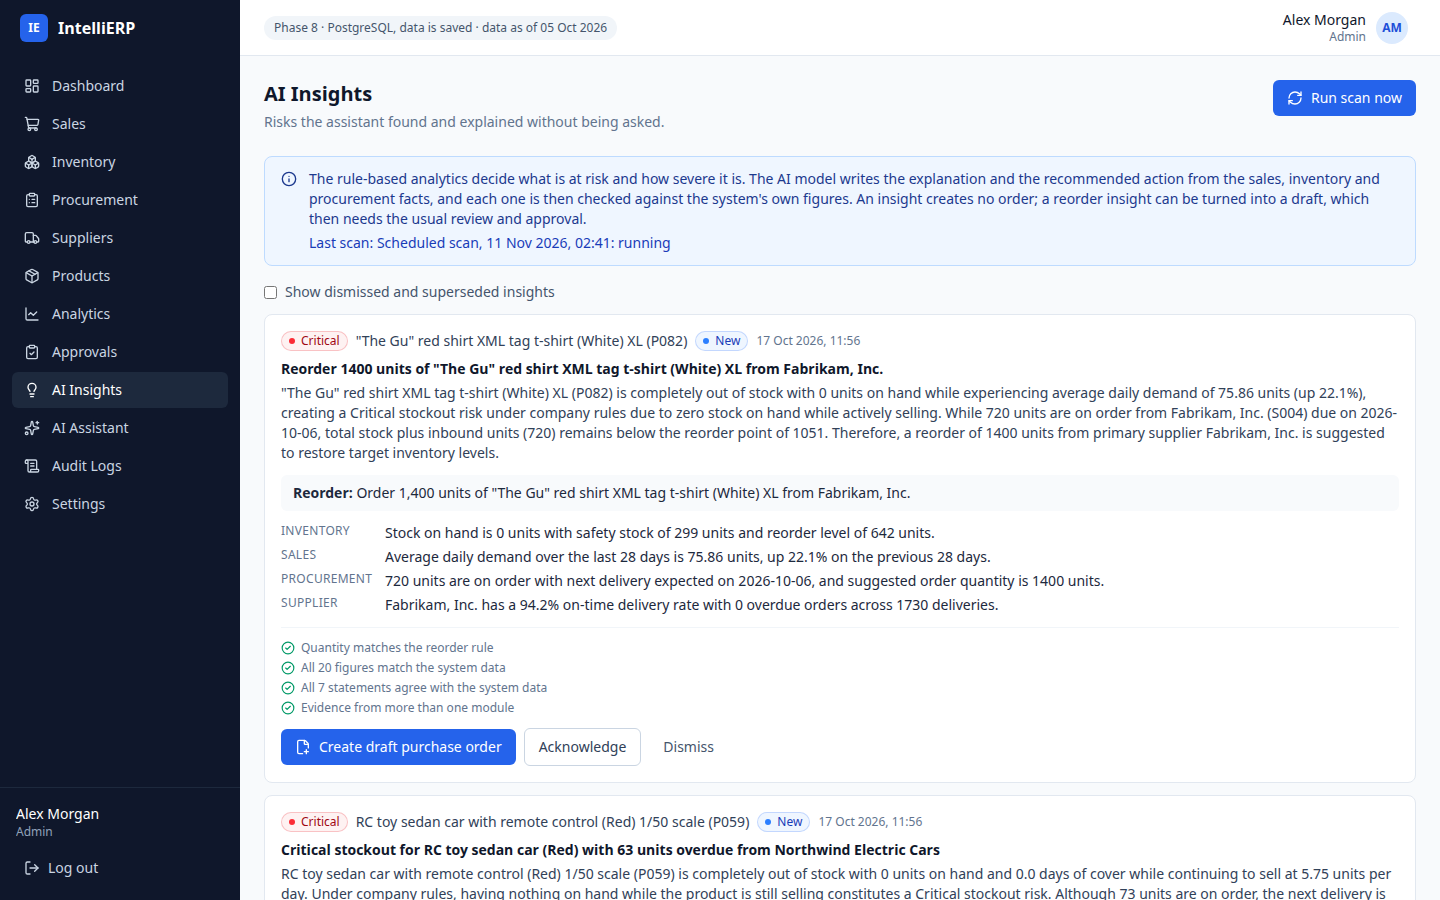
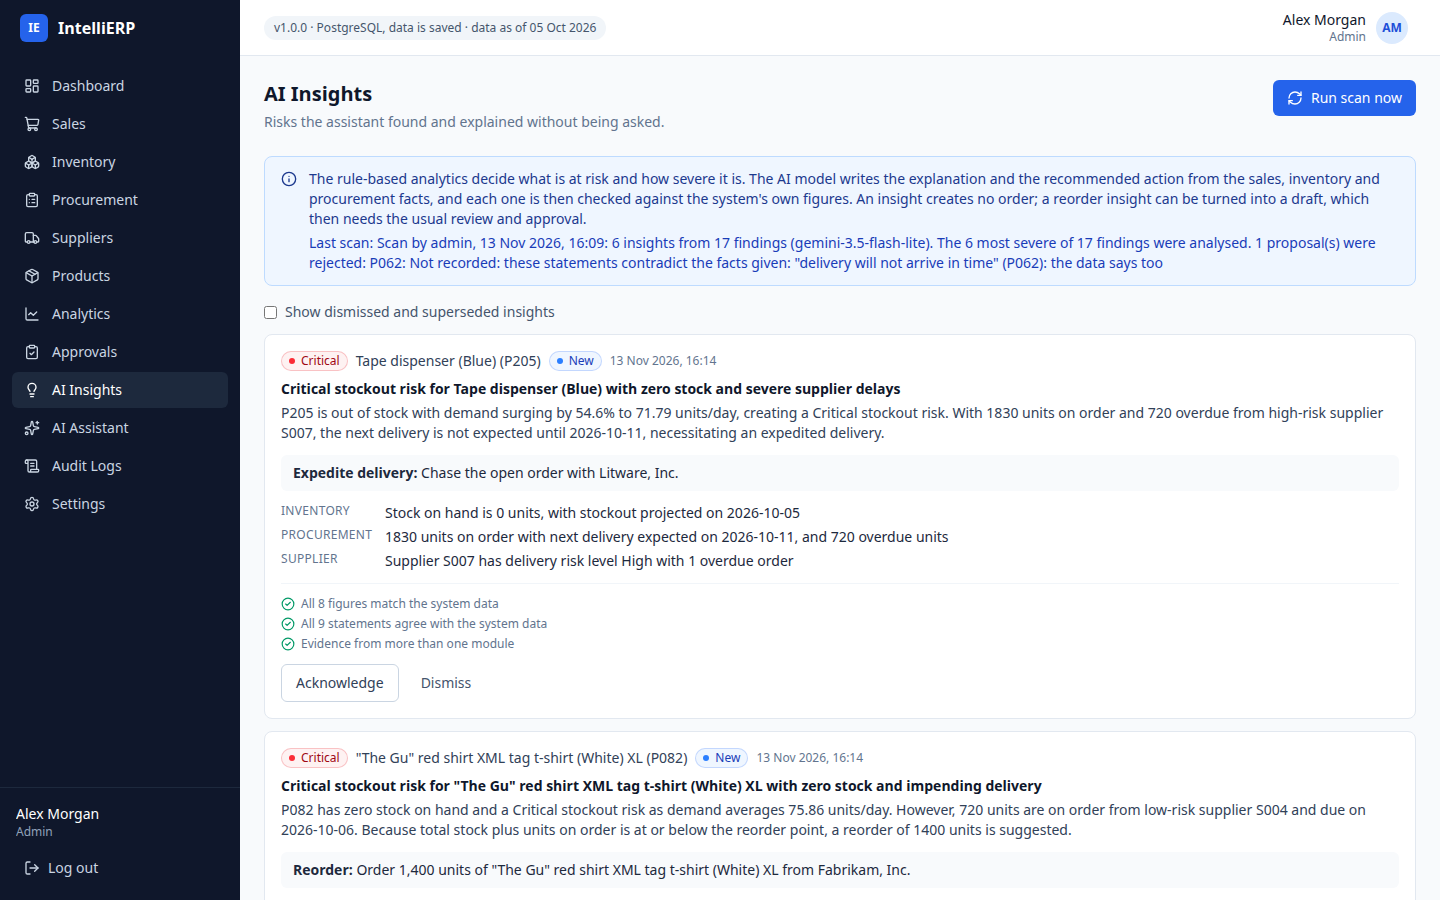
Version 1.0: the app reports the finished build (all nine phases), its AI model, grounding and statement check; interrupted AI scans are closed instead of showing as running for ever; escaped quotes in AI insights fixed; screenshots retaken; test counts (272 passed) updated in all documents

Changed region(s): [[0.1875, 0.2489, 0.9688, 1.0], [0.1875, 0.0, 0.4062, 0.0622]]

diff --git a/Research/report/src/ch6.js b/Research/report/src/ch6.js
@@ -8,7 +8,7 @@ module.exports = [
 
   { h2: '6.2 Testing and Evaluation of the System' },
   { h3: '6.2.1 Automated testing' },
-  { p: 'The back end has 182 test functions in 13 files, run as 280 test cases with pytest. In the final run, 269 passed and 11 were skipped; the skipped cases test persistence and database constraints and run only when a separate PostgreSQL test database is configured. The tests use the in-memory repositories and a scripted stand-in for the language model, so they check the plumbing deterministically; answer quality is measured separately in Sections 6.3 to 6.5.' },
+  { p: 'The back end has 185 test functions in 13 files, run as 283 test cases with pytest. In the final run, 272 passed and 11 were skipped; the skipped cases test persistence and database constraints and run only when a separate PostgreSQL test database is configured. The tests use the in-memory repositories and a scripted stand-in for the language model, so they check the plumbing deterministically; answer quality is measured separately in Sections 6.3 to 6.5.' },
   { table: { caption: 'Automated test suite', widths: [2.6, 0.9, 5.5],
     head: ['Test file', 'Tests', 'What it covers'],
     rows: [
@@ -17,11 +17,11 @@ module.exports = [
       ['test_procurement_workflow.py', '8', 'Draft, edit, submit, approve, reject, validation, separation of duties, audit'],
       ['test_persistence.py', '7', 'Workflows stored in PostgreSQL, constraints, transactions'],
       ['test_analytics.py', '20', 'Demand, trend, forecasts, back-test, stockout risk, reorder, supplier performance, what-if'],
-      ['test_clock.py', '5', 'Business date that follows the data'],
+      ['test_clock.py', '6', 'Business date that follows the data; version and AI settings reported'],
       ['test_knowledge.py', '12', 'Every column described, numbers taken from the code, retrieval accuracy'],
       ['test_ai.py', '19', 'Tools follow the role, refused tools, audit, figures without a source sent back'],
       ['test_providers.py', '15', 'Gemini and Claude tool round trips, errors, fallback models, daily limits'],
-      ['test_insights.py', '18', 'Figure checks, recommendation checks, scans, insight lifecycle'],
+      ['test_insights.py', '20', 'Figure checks, recommendation checks, scans (including interrupted ones), insight lifecycle'],
       ['test_ai_actions.py', '15', 'AI drafts: origin, validation, permissions, limits, no tool beyond a draft'],
       ['test_claims.py', '11', 'Pattern claim checking, correction rounds, contradicted insights not stored'],
       ['test_trace.py', '35', 'TRACE: comparisons, subjects, deliveries, rules, permissions, separation of duties'],
@@ -207,5 +207,5 @@ module.exports = [
   { p: '**False alarms have a cost.** The harm check showed that a false alarm can lead the model to "correct" a true statement into a false one. A deployment should therefore prefer showing a warning to the user over automatic correction when the extractor\'s confidence is low.' },
 
   { h2: '6.7 Summary' },
-  { p: 'All 269 automated tests passed, and the controls on permissions, verification and approval behave as specified. Grounding was the largest single factor in correctness (RQ1). TRACE detected 69% of held-out errors with 4% false alarms, far above the pattern-based checker and MiniCheck and not significantly behind two LLM judges, one of which raised four times as many false alarms, but it found only 4 of 19 natural errors because most were definitions or relations between figures outside its language (RQ2). Verification did not measurably change false-premise rebuttals, can harm correct answers through false alarms, and adds seconds and one model call per answer (RQ3).' },
+  { p: 'All 272 automated tests passed, and the controls on permissions, verification and approval behave as specified. Grounding was the largest single factor in correctness (RQ1). TRACE detected 69% of held-out errors with 4% false alarms, far above the pattern-based checker and MiniCheck and not significantly behind two LLM judges, one of which raised four times as many false alarms, but it found only 4 of 19 natural errors because most were definitions or relations between figures outside its language (RQ2). Verification did not measurably change false-premise rebuttals, can harm correct answers through false alarms, and adds seconds and one model call per answer (RQ3).' },
 ];

diff --git a/Frontend/src/pages/Settings.tsx b/Frontend/src/pages/Settings.tsx
@@ -5,7 +5,17 @@ import { QueryBoundary } from '../components/common/QueryBoundary'
 import { useAuth } from '../context/AuthContext'
 import { useApi } from '../hooks/useApi'
 import { systemService } from '../services/systemService'
-import { formatRole } from '../utils/format'
+import type { SystemInfo } from '../types/system'
+import { formatDate, formatRole } from '../utils/format'
+
+const PROVIDERS: Record<SystemInfo['ai_provider'], string> = { gemini: 'Google Gemini', anthropic: 'Anthropic Claude' }
+
+const VERIFIERS: Record<SystemInfo['verifier'], string> = {
+  patterns: 'Claim patterns: figures, risk levels and rules checked against the data',
+  'trace-rule': 'TRACE, rules only: typed assertions checked by the system\'s own code',
+  trace: 'TRACE: typed assertions extracted by the model and checked by the system\'s own code',
+  off: 'Off (for experiments only)',
+}
 
 export default function Settings() {
   const { user } = useAuth()
@@ -36,16 +46,38 @@ export default function Settings() {
             ))}
           </ul>
         </Card>
-        <Card title="About this build">
+        <Card title="About this build" subtitle="The settings the server is running with.">
           <QueryBoundary state={system} resource="system information">
             {(info) => (
-              <p className="text-sm text-slate-600">
-                IntelliERP Phase {info.phase}.{' '}
-                {info.persistent
-                  ? 'ERP data is stored in PostgreSQL and survives restarts.'
-                  : 'Running on the in-memory backend: changes are lost when the server restarts.'}{' '}
-                No AI model is connected yet. Editing profiles and managing users are planned for a later phase.
-              </p>
+              <>
+                <DetailList
+                  items={[
+                    { label: 'Version', value: `IntelliERP ${info.version} (all ${info.phase} phases complete)` },
+                    {
+                      label: 'Data',
+                      value: info.persistent
+                        ? 'PostgreSQL: data is saved and survives restarts'
+                        : 'In-memory demo data: changes are lost when the server restarts',
+                    },
+                    { label: 'Data as of', value: formatDate(info.business_date) },
+                    {
+                      label: 'AI assistant',
+                      value: info.ai_configured
+                        ? `Connected: ${info.ai_model} (${PROVIDERS[info.ai_provider]})`
+                        : `Not connected: set the ${info.ai_provider === 'gemini' ? 'GEMINI_API_KEY' : 'ANTHROPIC_API_KEY'} in Backend/.env`,
+                    },
+                    {
+                      label: 'Grounding',
+                      value: info.grounding ? 'On: answers use the knowledge base of company rules' : 'Off (for experiments only)',
+                    },
+                    { label: 'Statement check', value: VERIFIERS[info.verifier] },
+                  ]}
+                />
+                <p className="mt-4 text-xs text-slate-500">
+                  Accounts and roles are defined in the seed data; this page shows them but does not edit them. The
+                  statement check is set with <code>LLM_VERIFIER</code> in <code>Backend/.env</code>.
+                </p>
+              </>
             )}
           </QueryBoundary>
         </Card>

diff --git a/Research/report/src/ch4.js b/Research/report/src/ch4.js
@@ -33,11 +33,11 @@ module.exports = [
   ...ui(7, 'AI Assistant', 'ui-ai-assistant.png',
     'The AI assistant is a chat page. A notice at the top explains that answers are written by an AI model from data it reads through IntelliERP\'s own reports, limited to what the user\'s role can see, and that the only record it can create is a draft purchase order. In the screenshot, the user asked whether to reorder product P082; the assistant recommends reordering 1,400 units from Fabrikam, Inc.',
     'Each answer shows the recommendation with its evidence labelled by module (inventory, sales, procurement, supplier, company rule), the results of the checks, the tools used ("Data used") and the knowledge passages consulted ("Company rules consulted"). A button turns a checked reorder recommendation into a draft purchase order [Ref: FR5, FR6, FR8, FR10].',
-    'The check results under the answer, "Quantity matches the reorder rule", "All 16 figures match the system data" and "All 4 statements agree with the system data", are produced by the verification described in Chapter 5, not by the model. They give the user a cheap way to judge the answer, which research shows reduces over-reliance on AI [@vasconcelos2023overreliance].'),
+    'The check results under the answer, "Quantity matches the reorder rule", "All 20 figures match the system data" and "All 5 statements agree with the system data", are produced by the verification described in Chapter 5, not by the model. They give the user a cheap way to judge the answer, which research shows reduces over-reliance on AI [@vasconcelos2023overreliance].'),
   ...ui(8, 'AI Insights Page', 'ui-ai-insights.png',
     'The AI insights page lists the risks the assistant found and explained without being asked. Each insight shows its severity, product, headline, explanation, recommended action, evidence by module and the results of the checks, with buttons to create a draft order, acknowledge or dismiss.',
     'Scans run on a schedule and on demand. Only the High and Critical findings of the analytics are analysed, the most severe first [Ref: FR7].',
-    'The AI cannot raise an insight about anything the analytics did not flag, and an insight that contradicts the data is not stored until corrected. In the screenshot, all 20 figures and all 7 statements of the first insight agreed with the system data.'),
+    'The AI cannot raise an insight about anything the analytics did not flag, and an insight that contradicts the data is not stored until corrected. In the screenshot, all 8 figures and all 9 statements of the first insight agreed with the system data, and the scan notice shows one proposal that the check rejected because it contradicted the data.'),
   ...ui(9, 'AI-drafted Purchase Order', 'ui-po-ai-draft.png',
     'This page shows a purchase order drafted from an AI insight. Besides the usual order details, a panel shows the insight it came from, the AI\'s explanation and evidence by module, and the result of the checks at the time the draft was made.',
     'The draft can be edited, deleted or submitted for approval by a user with procurement rights. After submission, a different user with the approval permission must approve or reject it in the Approval Center [Ref: FR3, FR10].',

diff --git a/Research/report/figures/fig-methodology.html b/Research/report/figures/fig-methodology.html
@@ -7,7 +7,7 @@
 <script src="../node_modules/chart.js/dist/chart.umd.js"></script></head>
 <body><div id="fig"><div style="width:1000px">
 <div style="display:flex;gap:14px;align-items:stretch">
- <div class="box" style="flex:1"><div class="title">1. Problem and evidence</div><div class="small">Literature review (61 papers)<br>Wide World Importers data analysis<br>Role and permission analysis</div></div><div style="align-self:center;font-size:26px;color:#1f3b73">➜</div><div class="box" style="flex:1"><div class="title">2. Requirements and design</div><div class="small">Functional and non-functional requirements<br>UML: context, use case, activity, class, sequence</div></div><div style="align-self:center;font-size:26px;color:#1f3b73">➜</div><div class="box" style="flex:1"><div class="title">3. Iterative development</div><div class="small">8 phases, each built, tested and reviewed<br>ERP core → analytics → AI assistant →<br>grounding → verification → controlled actions</div></div><div style="align-self:center;font-size:26px;color:#1f3b73">➜</div><div class="box" style="flex:1"><div class="title">4. Evaluation</div><div class="small">269 automated tests<br>86-question evaluation, 3 repeats<br>Held-out hallucination test<br>Natural errors, harm check</div></div>
+ <div class="box" style="flex:1"><div class="title">1. Problem and evidence</div><div class="small">Literature review (61 papers)<br>Wide World Importers data analysis<br>Role and permission analysis</div></div><div style="align-self:center;font-size:26px;color:#1f3b73">➜</div><div class="box" style="flex:1"><div class="title">2. Requirements and design</div><div class="small">Functional and non-functional requirements<br>UML: context, use case, activity, class, sequence</div></div><div style="align-self:center;font-size:26px;color:#1f3b73">➜</div><div class="box" style="flex:1"><div class="title">3. Iterative development</div><div class="small">8 phases, each built, tested and reviewed<br>ERP core → analytics → AI assistant →<br>grounding → verification → controlled actions</div></div><div style="align-self:center;font-size:26px;color:#1f3b73">➜</div><div class="box" style="flex:1"><div class="title">4. Evaluation</div><div class="small">272 automated tests<br>86-question evaluation, 3 repeats<br>Held-out hallucination test<br>Natural errors, harm check</div></div>
 </div>
 <div style="margin-top:12px;text-align:center;font-size:12.5px;color:#333">Results of step 4 fed back into steps 2 and 3 (e.g. five failures in the first evaluation run led to five design changes; TRACE replaced the pattern verifier)</div>
 </div></div><script></script></body></html>

diff --git a/Research/poster/build.js b/Research/poster/build.js
@@ -157,7 +157,7 @@ const html = `<!doctype html><html lang="en"><head><meta charset="utf-8"><title>
       <div class="data">
         <div><b>72,696</b>sales lines</div><div><b>5,443</b>purchase orders</div>
         <div><b>227</b>products</div><div><b>7</b>suppliers</div>
-        <div><b>15</b>AI tools</div><div><b>269</b>tests pass</div>
+        <div><b>15</b>AI tools</div><div><b>272</b>tests pass</div>
       </div>
       <p class="note" style="font-size:24px;margin-top:14px"><b>Built with</b> React 19 + TypeScript · Python FastAPI · PostgreSQL · Gemini 3.5 Flash-Lite and Gemma 4 31B (free API)</p>
     </div></section>
@@ -210,7 +210,7 @@ const html = `<!doctype html><html lang="en"><head><meta charset="utf-8"><title>
 
   <div class="col">
     <section><h2>The System in Use</h2><div class="body">
-      ${crop('ui-ai-assistant.png', 290, 236, 880, 520)}
+      ${crop('ui-ai-assistant.png', 290, 268, 880, 488)}
       <p class="cap">The AI assistant: every answer shows the data used, the company rules consulted and the check results.</p>
       ${crop('ui-po-ai-draft.png', 286, 566, 1110, 300)}
       <p class="cap" style="margin-bottom:0">The AI can only <b>draft</b> a purchase order. A different person must review and approve it, and every step is in the audit log.</p>

diff --git a/Research/report/make-figures.js b/Research/report/make-figures.js
@@ -45,7 +45,7 @@ page('fig-methodology', `<div style="width:1000px">
  ${[['1. Problem and evidence', 'Literature review (61 papers)<br>Wide World Importers data analysis<br>Role and permission analysis'],
     ['2. Requirements and design', 'Functional and non-functional requirements<br>UML: context, use case, activity, class, sequence'],
     ['3. Iterative development', '8 phases, each built, tested and reviewed<br>ERP core → analytics → AI assistant →<br>grounding → verification → controlled actions'],
-    ['4. Evaluation', '269 automated tests<br>86-question evaluation, 3 repeats<br>Held-out hallucination test<br>Natural errors, harm check']]
+    ['4. Evaluation', '272 automated tests<br>86-question evaluation, 3 repeats<br>Held-out hallucination test<br>Natural errors, harm check']]
    .map(([t, s], i) => `<div class="box" style="flex:1"><div class="title">${t}</div><div class="small">${s}</div></div>${i < 3 ? '<div style="align-self:center;font-size:26px;color:#1f3b73">➜</div>' : ''}`).join('')}
 </div>
 <div style="margin-top:12px;text-align:center;font-size:12.5px;color:#333">Results of step 4 fed back into steps 2 and 3 (e.g. five failures in the first evaluation run led to five design changes; TRACE replaced the pattern verifier)</div>

diff --git a/Research/report/src/appendix.js b/Research/report/src/appendix.js
@@ -41,7 +41,7 @@ module.exports = [
     '**Audit Log** (admin only): see logins, purchase-order actions and every AI question with the model and tools used.',
   ] },
   { h2: 'A.5 Running the Tests and the Evaluation' },
-  { code: { caption: 'Running the automated tests and repeating an evaluation run', text: 'cd Backend && source .venv/bin/activate\npytest                                   # 280 test cases, no database needed\n\ncd ../LLM\n../Backend/.venv/bin/python -m evaluation.run --dry-run   # every question with its computed key\n../Backend/.venv/bin/python -m evaluation.run             # ask all 86 questions and score them' } },
+  { code: { caption: 'Running the automated tests and repeating an evaluation run', text: 'cd Backend && source .venv/bin/activate\npytest                                   # 283 test cases, no database needed\n\ncd ../LLM\n../Backend/.venv/bin/python -m evaluation.run --dry-run   # every question with its computed key\n../Backend/.venv/bin/python -m evaluation.run             # ask all 86 questions and score them' } },
 
   // ---------------------------------------------------------------------------------------------------------
   { h1: 'Appendix B: Evaluation Questions', chapter: 'B' },

diff --git a/Research/report/src/ch7.js b/Research/report/src/ch7.js
@@ -41,7 +41,7 @@ module.exports = [
   { table: { caption: 'Research questions, objectives and outcomes', widths: [1.2, 3.6, 4.2],
     head: ['RQ', 'Objective', 'Outcome'],
     rows: [
-      ['RQ1', 'Build a complete ERP system with role-based access control on a realistic dataset', 'Achieved: eight modules, four roles, Wide World Importers data; 269 automated tests pass (Chapters 4–6)'],
+      ['RQ1', 'Build a complete ERP system with role-based access control on a realistic dataset', 'Achieved: eight modules, four roles, Wide World Importers data; 272 automated tests pass (Chapters 4–6)'],
       ['RQ1', 'Design a grounded assistant: rules decide, the LLM explains through permission-checked tools', 'Achieved: 15 tools, knowledge base generated partly from code; 84, 86 and 86 of 86 questions passed; Gemma 86 of 86'],
       ['RQ1', 'Measure the effect of grounding', 'Achieved: 32 of 32 paired questions with grounding against 8–9 without (p < 0.0001); false statements 2.4% against 25.9%'],
       ['RQ2', 'Design a typed assertion language for enterprise statements', 'Achieved: 64 attributes, 24 rule keys and 21 actions in three families'],

diff --git a/Research/report/src/ch5.js b/Research/report/src/ch5.js
@@ -12,7 +12,7 @@ module.exports = [
       ['Backend', 'Python 3, FastAPI, Pydantic v2, PyJWT, bcrypt, Uvicorn', 'REST API, validation, authentication, business logic'],
       ['Database', 'PostgreSQL, SQLAlchemy 2, Alembic, psycopg 3', 'Persistent ERP data, migrations, constraints'],
       ['LLM', 'Google Gemini API (`google-genai`); Anthropic Claude supported', 'Assistant, insights, TRACE extraction'],
-      ['Testing', 'pytest (269 tests)', 'Automated tests of services, analytics, permissions, AI plumbing, TRACE'],
+      ['Testing', 'pytest (272 tests)', 'Automated tests of services, analytics, permissions, AI plumbing, TRACE'],
       ['Evaluation', 'Python scripts in `LLM/evaluation`; MiniCheck (PyTorch, Transformers) on the CPU', 'Experiments of Chapter 6'],
     ] } },
   { h3: '5.2.2 Hardware and environment' },

diff --git a/Research/report/src/ch3.js b/Research/report/src/ch3.js
@@ -82,7 +82,7 @@ module.exports = [
       ['NFR4', 'Privacy: the LLM never receives the database', 'Only the question, tool results and passages are sent'],
       ['NFR5', 'Maintainability: the knowledge base cannot drift from the code', 'Thresholds filled from code constants; a test fails if a column lacks a description'],
       ['NFR6', 'Reliability: failures of the external LLM must not break the application', 'Retries, fallback models, and pages that work without the assistant'],
-      ['NFR7', 'Testability: business logic covered by automated tests', '269 automated tests (pytest)'],
+      ['NFR7', 'Testability: business logic covered by automated tests', '272 automated tests (pytest)'],
       ['NFR8', 'Performance: verification adds seconds, not minutes', 'Measured in Chapter 6'],
     ] } },
 

diff --git a/Frontend/src/components/layout/Topbar.tsx b/Frontend/src/components/layout/Topbar.tsx
@@ -17,7 +17,7 @@ export function Topbar({ onMenuClick }: { onMenuClick: () => void }) {
         </button>
         {system.data && (
           <span className="rounded-full bg-slate-100 px-2.5 py-1 text-xs font-medium text-slate-600">
-            Phase {system.data.phase} ·{' '}
+            v{system.data.version} ·{' '}
             {system.data.persistent ? 'PostgreSQL, data is saved' : 'in-memory demo data, resets on server restart'}
             {' · '}data as of {formatDate(system.data.business_date)}
           </span>

diff --git a/Frontend/src/types/system.ts b/Frontend/src/types/system.ts
@@ -1,8 +1,15 @@
 export interface SystemInfo {
   app_name: string
+  version: string
+  /** The last completed build phase (9 of 9: the project is complete). */
   phase: number
   data_backend: 'postgres' | 'memory'
   persistent: boolean
   /** The day the analytics treat as today: the latest sales order date. */
   business_date: string
+  ai_configured: boolean
+  ai_provider: 'gemini' | 'anthropic'
+  ai_model: string
+  grounding: boolean
+  verifier: 'patterns' | 'trace-rule' | 'trace' | 'off'
 }
